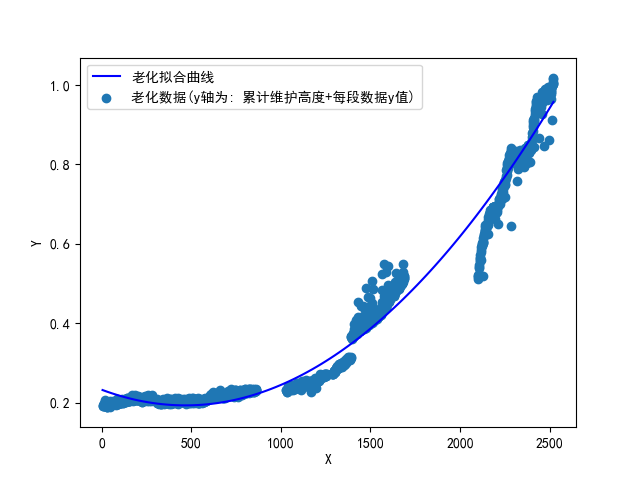
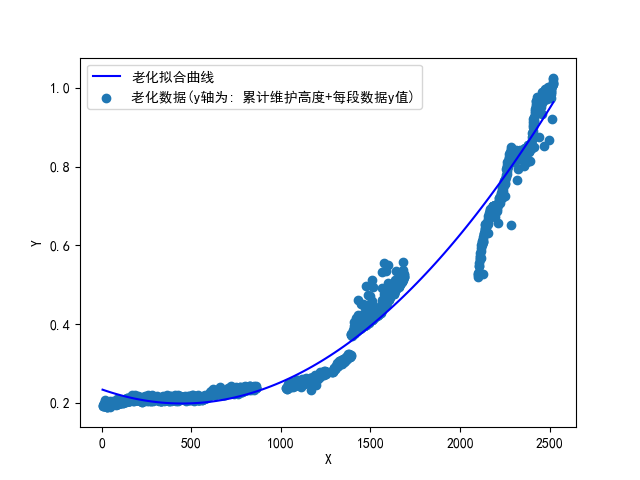
修改了第一段的图像295->293

diff --git a/test.py b/test.py
@@ -14,7 +14,7 @@ data = pd.read_excel('data/C1.xlsx')
 
 # 第1~11个大段 (0~285)，并删除每段的离群点
 data_1 = data.iloc[0:287]; data_1 = data_1.dropna(); data_1 = F.Remove_outliers(data_1)
-data_2 = data.iloc[295:592]; data_2 = data_2.dropna(); data_2 = F.Remove_outliers(data_2)
+data_2 = data.iloc[293:592]; data_2 = data_2.dropna(); data_2 = F.Remove_outliers(data_2)
 data_3 = data.iloc[592:856]; data_3 = data_3.dropna(); data_3 = F.Remove_outliers(data_3)
 data_4 = data.iloc[860:1018]; data_4 = data_4.dropna(); data_4 = F.Remove_outliers(data_4)
 data_5 = data.iloc[1022:1251];data_5 = data_5.dropna();data_5 = F.Remove_outliers(data_5)
